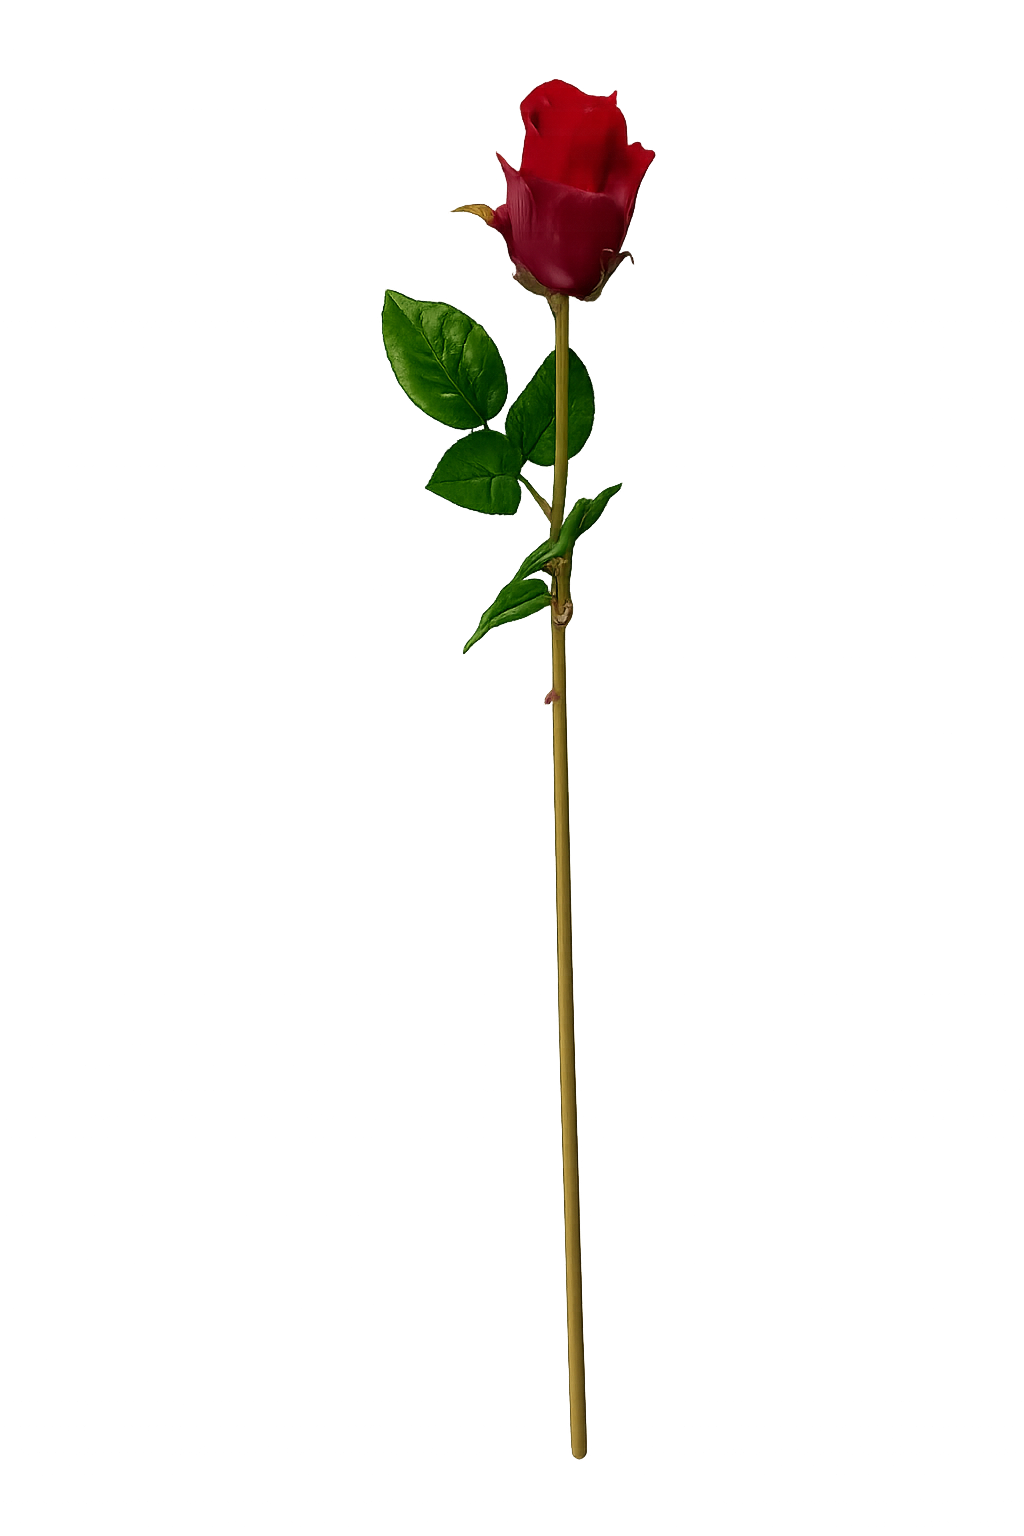
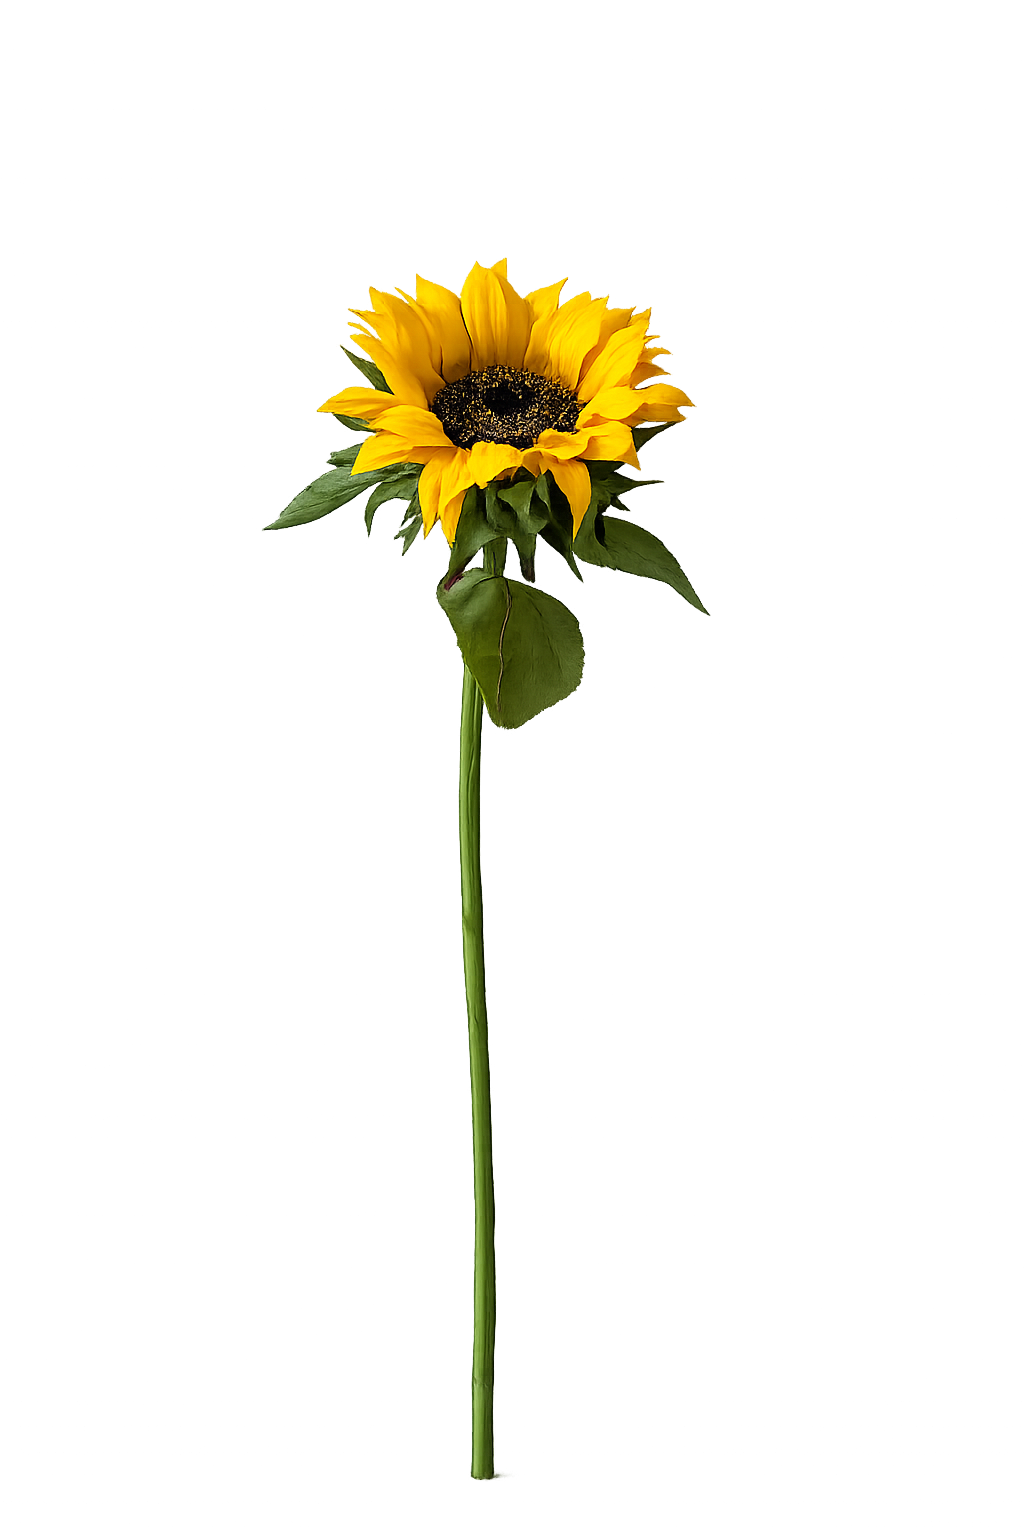
Kommentarer

Changed region(s): [[0.25, 0.0312, 0.6875, 0.9688]]

diff --git a/src/main/resources/static/components/CustomBouquetPage.js b/src/main/resources/static/components/CustomBouquetPage.js
@@ -2,10 +2,13 @@ import CustomBouquetAPI from '../api/CustomBouquetApi.js';
 import { Navbar } from './Navbar.js';
 import { Footer } from './Footer.js';
 
+//metode som skaber hele byg selv siden
 export async function renderCustomBouquetPage() {
     const app = document.getElementById('app');
 
     try {
+
+        //Henter alle blomster fra API
         const flowers = await CustomBouquetAPI.getAllFlowers();
 
         app.innerHTML = `
@@ -21,6 +24,7 @@ export async function renderCustomBouquetPage() {
 
                         <section class="product-grid">
                             ${
+            //Tjekeker alle blomster
             flowers.map(function(flower) {
                 return `
                                         <div class="product-card">
@@ -57,7 +61,13 @@ export async function renderCustomBouquetPage() {
                             <span id="total-price">0</span> kr.
                         </p>
 
-                        <button id="save-bouquet-btn">Gem buket</button>
+                        <div class="bouquet-actions">
+                            <button id="save-bouquet-btn">Gem buket</button>
+                        
+                            <button id="add-to-cart-btn">
+                                Tilføj til indkøbskurv
+                            </button>
+                        </div>
                     </section>
                 </section>
             </main>
@@ -72,12 +82,14 @@ export async function renderCustomBouquetPage() {
     }
 }
 
+//Denne funktion håndtere alle knapper
 function setupBouquetEvents() {
     const selectedFlowers = [];
     const selectedFlowersList = document.getElementById('selected-flowers');
     const totalPriceElement = document.getElementById('total-price');
     const addButtons = document.querySelectorAll('.add-flower-btn');
     const saveButton = document.getElementById('save-bouquet-btn');
+    const addToCartButton = document.getElementById('add-to-cart-btn');
 
     addButtons.forEach(function(button) {
         button.addEventListener('click', function() {
@@ -93,8 +105,14 @@ function setupBouquetEvents() {
     });
 
     saveButton.addEventListener('click', async function() {
+        const groupedFlowers = groupFlowersById(selectedFlowers);
+
+        const flowersText = groupedFlowers.map(function(flower) {
+            return `${flower.quantity}x ${flower.name}`;
+        }).join(', ');
+
         const bouquet = {
-            flowers: selectedFlowers,
+            flowersText: flowersText,
             totalPrice: calculateTotalPrice(selectedFlowers)
         };
 
@@ -106,8 +124,16 @@ function setupBouquetEvents() {
             alert('Noget gik galt. Buketten blev ikke gemt.');
         }
     });
+
+    addToCartButton.addEventListener('click', function() {
+
+       //Mangler kode til indkøbskurv som ikke er oprettet
+
+    });
+
 }
 
+//Funktion som opdaterer højre side med valgt buket
 function updateBouquetView(selectedFlowers, selectedFlowersList, totalPriceElement) {
     const groupedFlowers = groupFlowersById(selectedFlowers);
 
@@ -146,6 +172,7 @@ function updateBouquetView(selectedFlowers, selectedFlowersList, totalPriceEleme
     });
 }
 
+//Funktion som samler ens blomster sammen
 function groupFlowersById(selectedFlowers) {
     const groupedFlowers = [];
 
@@ -169,6 +196,7 @@ function groupFlowersById(selectedFlowers) {
     return groupedFlowers;
 }
 
+//Funktion som udregner totalpris
 function calculateTotalPrice(selectedFlowers) {
     let total = 0;
 

diff --git a/src/main/resources/static/css/style.css b/src/main/resources/static/css/style.css
@@ -53,7 +53,7 @@ h1, h2, .logo {
 .footer-grid { display: grid; grid-template-columns: 2fr 1fr 1fr 1fr; gap: 30px; }
 
 
-/* Build Bouquet Page */
+/* Custom Bouquet side */
 .bouquet-page {
     max-width: 1200px;
     width: 100%;
@@ -103,4 +103,14 @@ h1, h2, .logo {
 
 .remove-flower-btn {
     cursor: pointer;
+}
+
+.bouquet-actions {
+    display: flex;
+    gap: 10px;
+    margin-top: 20px;
+}
+
+.bouquet-actions button {
+    flex: 1;
 }

diff --git a/src/main/resources/static/components/App.js b/src/main/resources/static/components/App.js
@@ -33,13 +33,18 @@ async function init() {
         const startButton = document.getElementById('start-build-bouquet-btn');
 
         if (startButton) {
-            startButton.addEventListener('click', function (){
-                renderCustomBouquetPage()
+            startButton.addEventListener('click', function () {
+                window.history.pushState({}, '', '/custom-bouquet');
+                renderCustomBouquetPage();
             });
         }
     } catch (error) {
         console.error("Render fejl:", error);
     }
 }
+//Eventlistener så man kan gå tilbage til forrige side på hjemmesiden
+window.addEventListener('popstate', function () {
+    init();
+});
 
 init();

diff --git a/src/main/java/com/example/ullasblomsterapp/Model/CustomBouquet.java b/src/main/java/com/example/ullasblomsterapp/Model/CustomBouquet.java
@@ -1,4 +1,51 @@
 package com.example.ullasblomsterapp.Model;
 
+import jakarta.persistence.Entity;
+import jakarta.persistence.GeneratedValue;
+import jakarta.persistence.GenerationType;
+import jakarta.persistence.Id;
+
+@Entity
 public class CustomBouquet {
+
+    @Id
+    @GeneratedValue(strategy = GenerationType.IDENTITY)
+    private Long id;
+    private double totalPrice;
+    private String flowersText;
+
+    public CustomBouquet() {
+    }
+
+    //Konstruktør
+    public CustomBouquet(Long id, double totalPrice, String flowersText) {
+        this.id = id;
+        this.totalPrice = totalPrice;
+        this.flowersText = flowersText;
+    }
+
+    //Getters og setters
+    public Long getId() {
+        return id;
+    }
+
+    public void setId(Long id) {
+        this.id = id;
+    }
+
+    public double getTotalPrice() {
+        return totalPrice;
+    }
+
+    public void setTotalPrice(double totalPrice) {
+        this.totalPrice = totalPrice;
+    }
+
+    public String getFlowersText() {
+        return flowersText;
+    }
+
+    public void setFlowersText(String flowersText) {
+        this.flowersText = flowersText;
+    }
 }

diff --git a/src/main/java/com/example/ullasblomsterapp/Controller/CustomBouquetController.java b/src/main/java/com/example/ullasblomsterapp/Controller/CustomBouquetController.java
@@ -1,4 +1,22 @@
 package com.example.ullasblomsterapp.Controller;
 
+import com.example.ullasblomsterapp.Model.CustomBouquet;
+import com.example.ullasblomsterapp.Service.CustomBouquetService;
+import org.springframework.web.bind.annotation.*;
+
+@RestController
+@RequestMapping("/api/custom-bouquets")
 public class CustomBouquetController {
+
+    private final CustomBouquetService customBouquetService;
+
+    public CustomBouquetController(CustomBouquetService customBouquetService) {
+        this.customBouquetService = customBouquetService;
+    }
+
+    //Opretter og gemmer en buket til db
+    @PostMapping
+    public CustomBouquet createBouquet(@RequestBody CustomBouquet bouquet) {
+        return customBouquetService.saveBouquet(bouquet);
+    }
 }

diff --git a/src/main/java/com/example/ullasblomsterapp/Service/CustomBouquetService.java b/src/main/java/com/example/ullasblomsterapp/Service/CustomBouquetService.java
@@ -1,4 +1,20 @@
 package com.example.ullasblomsterapp.Service;
 
+import com.example.ullasblomsterapp.Model.CustomBouquet;
+import com.example.ullasblomsterapp.Repository.CustomBouquetRepository;
+import org.springframework.stereotype.Service;
+
+@Service
 public class CustomBouquetService {
+
+    private final CustomBouquetRepository customBouquetRepository;
+
+    public CustomBouquetService(CustomBouquetRepository customBouquetRepository) {
+        this.customBouquetRepository = customBouquetRepository;
+    }
+
+    //Snakker med db og sender videre til repository
+    public CustomBouquet saveBouquet(CustomBouquet bouquet) {
+        return customBouquetRepository.save(bouquet);
+    }
 }

diff --git a/src/main/java/com/example/ullasblomsterapp/Repository/CustomBouquetRepository.java b/src/main/java/com/example/ullasblomsterapp/Repository/CustomBouquetRepository.java
@@ -1,4 +1,8 @@
 package com.example.ullasblomsterapp.Repository;
 
-public interface CustomBouquetRepository {
+import com.example.ullasblomsterapp.Model.CustomBouquet;
+import org.springframework.data.jpa.repository.JpaRepository;
+
+//Interface repository med JPA
+public interface CustomBouquetRepository extends JpaRepository<CustomBouquet, Long> {
 }